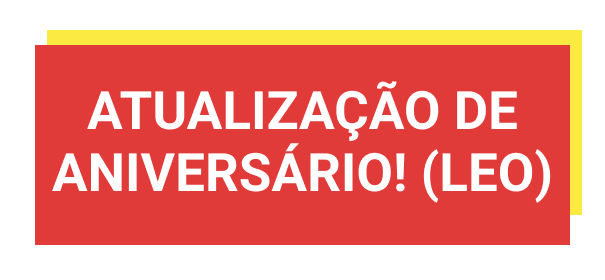
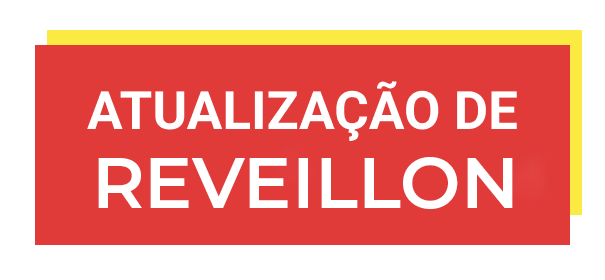
Reveillon parte 1

Changed region(s): [[0.0893, 0.5143, 0.9223, 0.7429]]

diff --git a/scripts/aquecimento.js b/scripts/aquecimento.js
@@ -141,7 +141,7 @@ function esquentando_pt2() {
 }
 
 
-// requisição do dados dos complementos aleatórios
+// requisição do dados dos comandos
 $.ajax({
     url: "https://tpougy.github.io/desafio-ou-desafio/data/aquecimento.json",
     type: "get",
